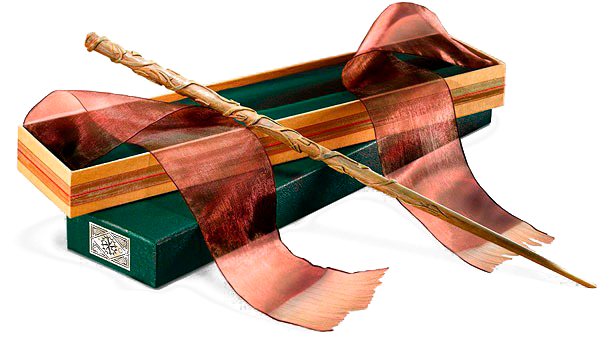
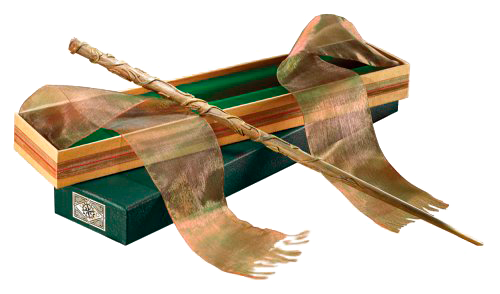
ho

diff --git a/P1/Tienda/pages/ollivander.html b/P1/Tienda/pages/ollivander.html
@@ -43,7 +43,7 @@
                         <h6> Hermione's Wand</h6>
                     </div>
                     <br>
-                    <img class= image src="https://github.com/Elenadr/2020-2021-LTAW-Practicas/blob/main/P1/wiki/v-hermione.png?raw=true">
+                    <img class= image src="https://github.com/Elenadr/2020-2021-LTAW-Practicas/blob/main/P1/wiki/v-hermione_peq.png?raw=true">
                 </div>
                 <div class="dumbledore_w">
                     <div class="titulo_dumb">
